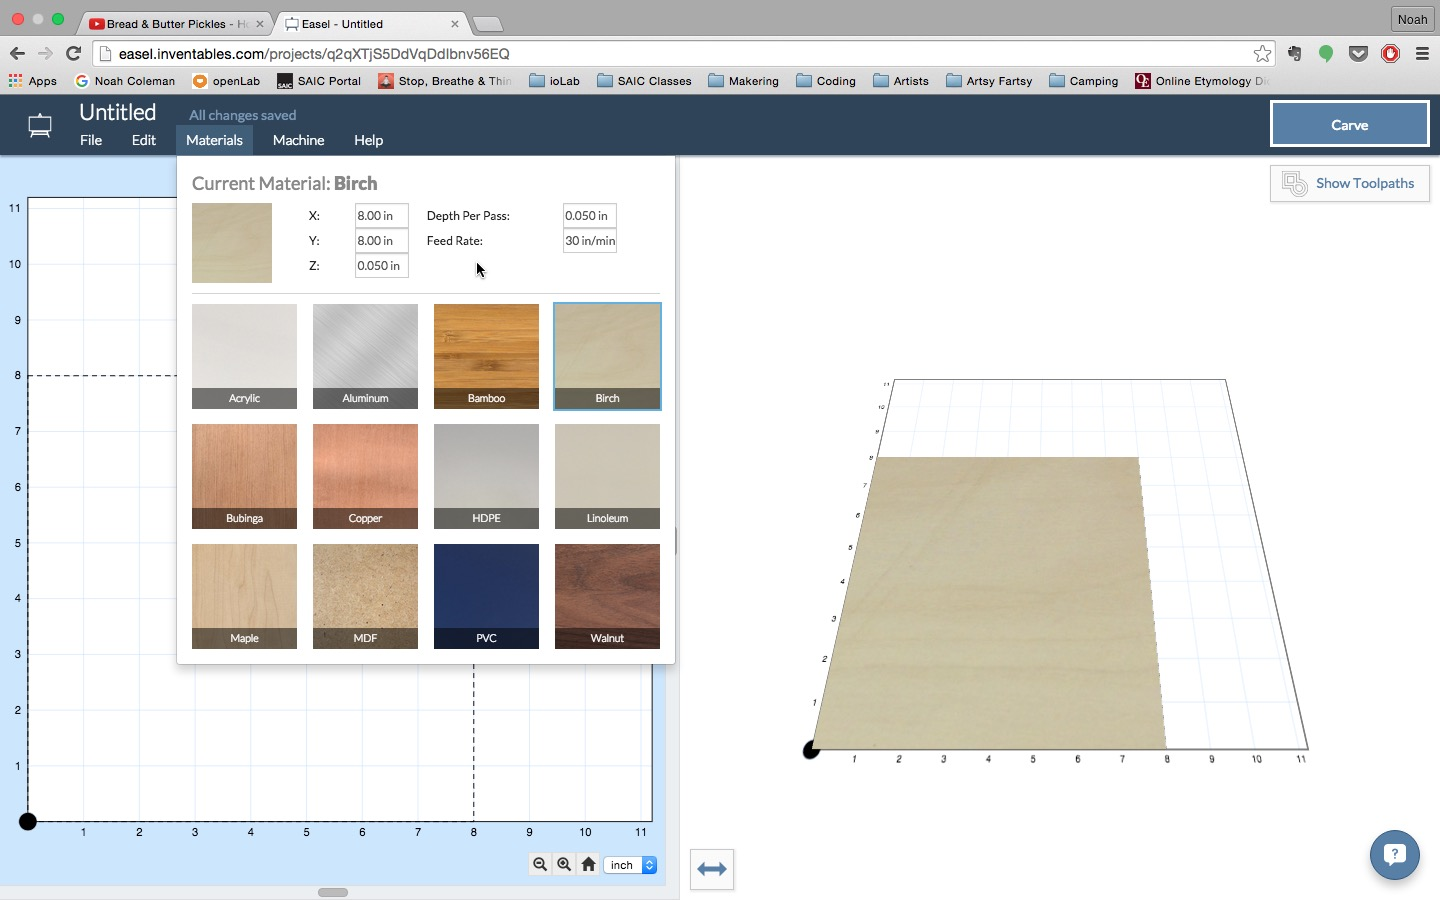
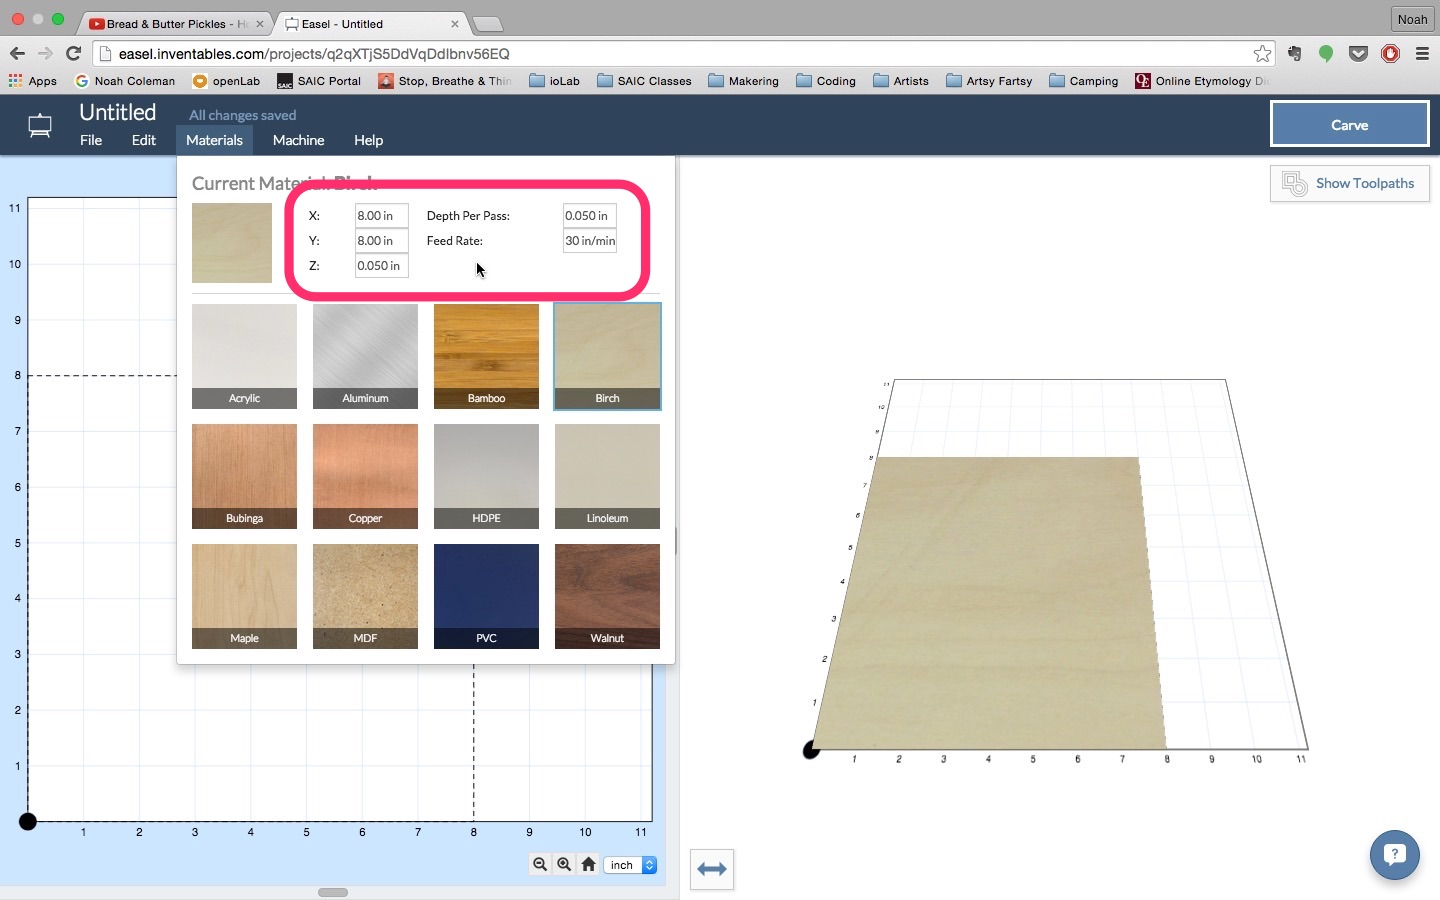
marked up Materials.jpg and edited .md file

Changed region(s): [[0.1875, 0.1867, 0.4688, 0.3422]]

diff --git a/ShapeokoDrawing.md b/ShapeokoDrawing.md
@@ -1,3 +1,18 @@
 *Step-By-Step Cheat Sheet for Making a _Drawing_ on the Shapeoko
 1. Go to the [Easel](https://www.inventables.com/technologies/easel) website.  Click on "Launch the App." Sign in or sign up.  It's free, so that's nice.
-2. So here is the landing page once you open up Easel.  First things first, I want to go to the "Materials" menu and change some settings.  
+2. So here is the landing page once you open up Easel: ![alt text][1]
+First things first, Let's go to the "Materials" menu and change some settings.
+- Select the material labeled "Birch"
+- Change "x" and "y" to 8 inches
+- Change "z" to 0.05 inches
+- Change "Depth Per Pass" to 0.05 inches
+
+This ensures you will have the right size material for the Shapeoko, and that your pen will only make one pass on the paper (since we're not actually cutting it).
+
+
+
+
+
+
+
+[1]: https://raw.githubusercontent.com/noahcoleman/ioLabCheatSheets/master/images/Materials.jpg "Materials settings."
